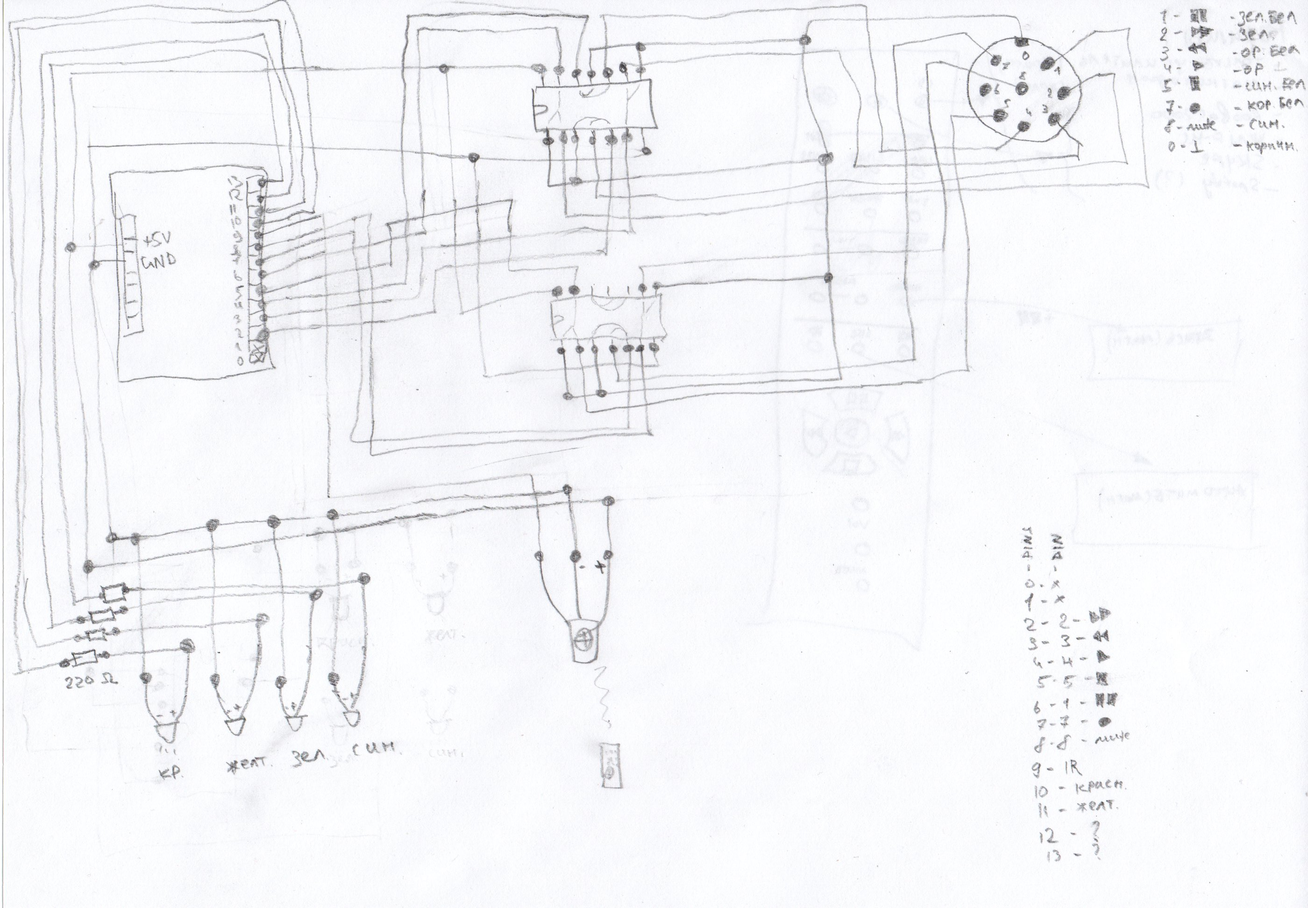
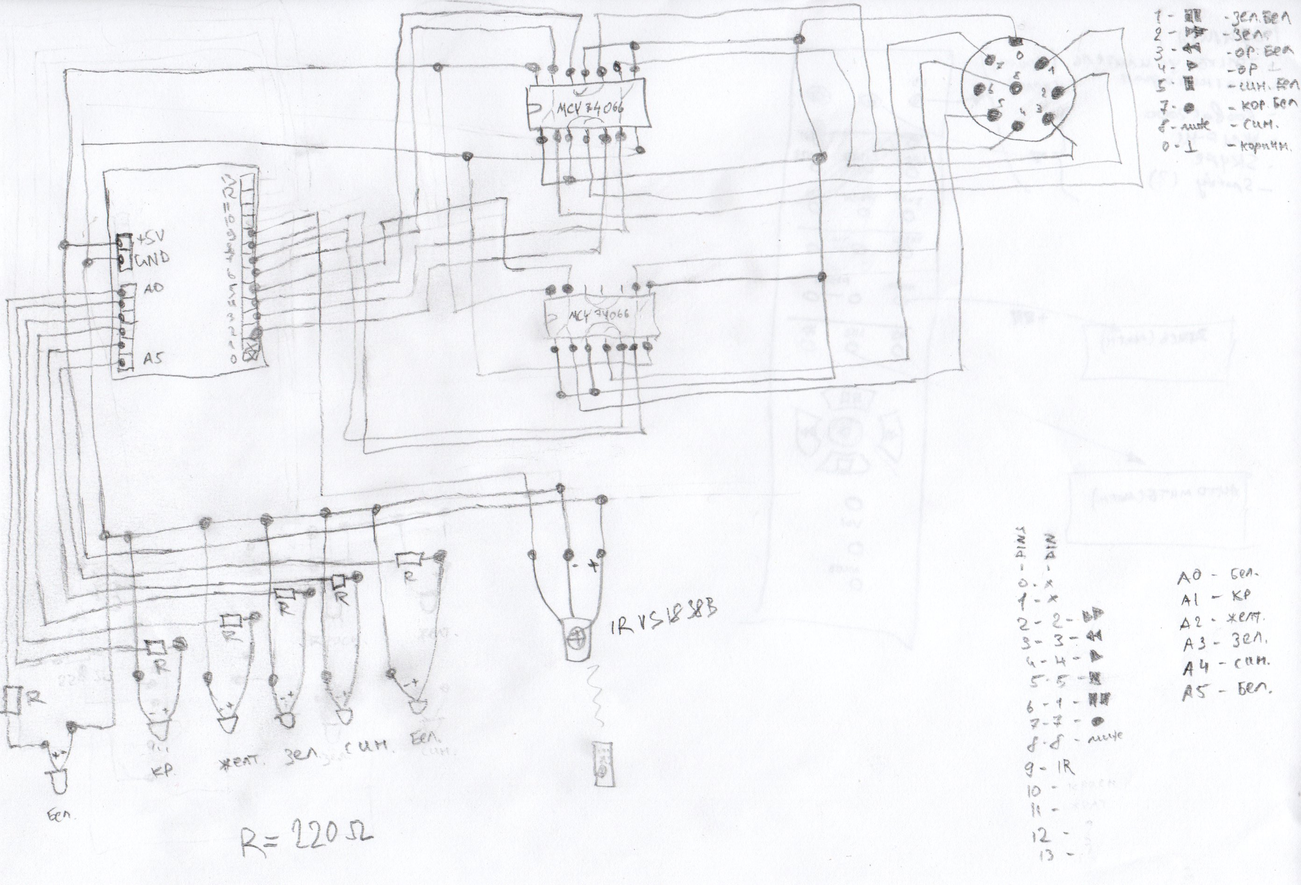
docs(README): update image and part list

diff --git a/firmware/pc-and-akai/README.md b/firmware/pc-and-akai/README.md
@@ -8,6 +8,13 @@
 - Supports receiving signals via serial port from driver to light LEDs (red, yellow, green, blue, white)
 - When Akai control is active then big white LED is turned on and PC does not receive any signals
 
+## Parts
+
+* VS1838B
+* [MCY 74066] &times; 2
+* Resistor 220 Ω &times; 6
+* LED &times; 6
+
 ## LEDs
 
 In order to light LEDs on the device, driver should send back an integer via serial port to Arduino. 1<sup>st</sup> bit of this number corresponds to red, 2<sup>nd</sup> &mdash; yellow, 3<sup>rd</sup> &mdash; green, 4<sup>th</sup> &mdash; blue, 5<sup>th</sup> &mdash; white. 6<sup>th</sup> bit is always `1`.
@@ -17,3 +24,5 @@ For example, send `0b100011` (=35) to light red and yellow LEDs simultaneously.
 ## Ping
 
 This modification determines if PC is disconnected. Firmware is sending "PING" string to PC via serial port every minute. Driver responds with "PONG" string. If PC is disconnected then all LEDs are turn off.
+
+[mcy 74066]: https://www.datasheetarchive.com/pdf/download.php?id=10e21403acd8e45d1c1a31d420988ef8e63843&type=M

diff --git a/firmware/pc-only/README.md b/firmware/pc-only/README.md
@@ -4,6 +4,10 @@
 
 <image width=500 src="../doc/pc-only-proto.jpg">
 
+## Parts
+
+* VS1838B
+
 ---
 
 Inspired by *[How to Set Up an IR Remote and Receiver on an Arduino](http://www.circuitbasics.com/arduino-ir-remote-receiver-tutorial/)*.
